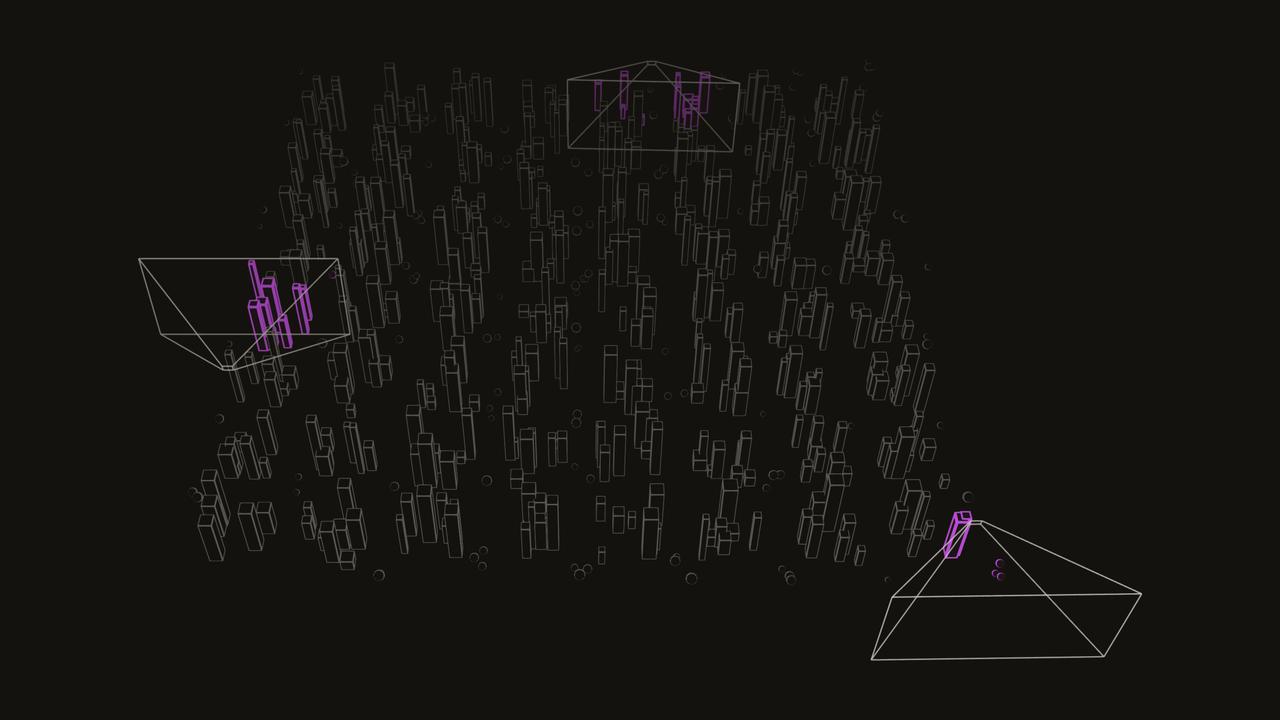
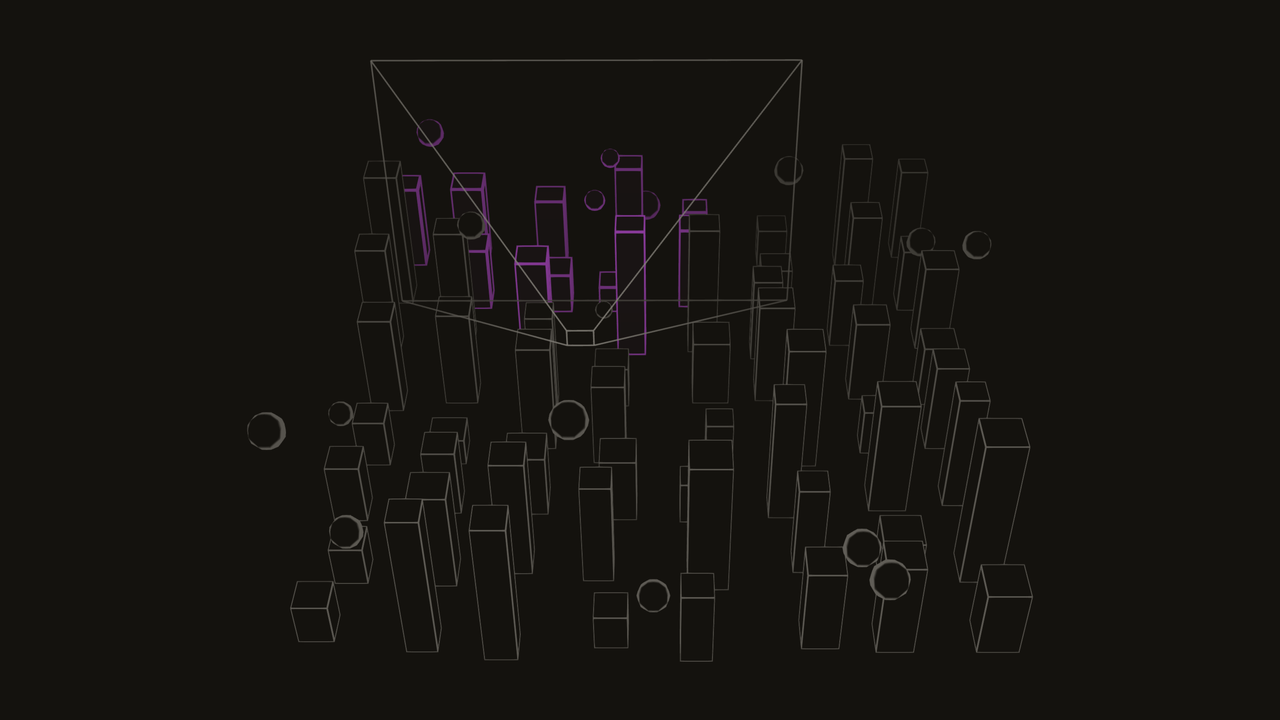
Match frustum study scale to promo

diff --git a/examples/src/example-frustum-culling.ts b/examples/src/example-frustum-culling.ts
@@ -27,11 +27,11 @@ import { clearColor, palette, rgb, spectrum } from './common/theme';
 const MAX_AGENTS = 16;
 const ACCENT = spectrum[0];
 const BLOCKS = 8; // city blocks per side, so BLOCKS + 1 streets and intersections
-const BLOCK = 4; // centre to centre of neighbouring streets
+const BLOCK = 1.1; // centre to centre of neighbouring streets
 const FIELD = BLOCKS * BLOCK;
-const ROAD = 1.1; // kept clear of buildings
-const PER_BLOCK = 8;
-const ORBS = 120;
+const ROAD = 0.32; // kept clear of buildings
+const PER_BLOCK = 1;
+const ORBS = 16;
 const EYE_HEIGHT = 0.75;
 const TURN_RATE = 7; // how fast an agent swings to face a new street
 
@@ -42,7 +42,7 @@ function street(i: number): number {
 
 type Settings = { agents: number; fov: number; range: number; speed: number; cones: boolean };
 
-const settings: Settings = { agents: 3, fov: 52, range: 5, speed: 2.2, cones: true };
+const settings: Settings = { agents: 1, fov: 52, range: 4.4, speed: 0.8, cones: true };
 
 /* the map */
 
@@ -65,8 +65,8 @@ for (let bz = 0; bz < BLOCKS; bz++) {
         const minZ = street(bz) + ROAD / 2;
         const maxZ = street(bz + 1) - ROAD / 2;
         for (let k = 0; k < PER_BLOCK; k++) {
-            const width = random.float(nextRandom, 0.25, 0.6);
-            const height = random.float(nextRandom, 0.4, 3.2);
+            const width = random.float(nextRandom, 0.35, 0.5);
+            const height = random.float(nextRandom, 0.4, 2.2);
             vec3.set(
                 _build_center,
                 random.float(nextRandom, minX + width / 2, maxX - width / 2),
@@ -149,6 +149,8 @@ function createAgent(): Agent {
 
 const agents: Agent[] = [];
 for (let i = 0; i < MAX_AGENTS; i++) agents.push(createAgent());
+agents[0].cellX = BLOCKS / 2;
+agents[0].cellZ = BLOCKS / 2;
 
 /** Picks the next street at an intersection, favouring straight on and never doubling back. */
 function turn(agent: Agent): void {
@@ -205,7 +207,7 @@ const UP: Vec3 = [0, 1, 0];
 function look(delta: number): number {
     for (let i = 0; i < seenBy.length; i++) seenBy[i] = -1;
 
-    mat4.perspectiveZO(projection, (settings.fov * Math.PI) / 180, 1.9, 0.25, settings.range);
+    mat4.perspectiveZO(projection, (settings.fov * Math.PI) / 180, 1.5, 0.25, settings.range);
 
     let seen = 0;
     for (let a = 0; a < settings.agents; a++) {
@@ -247,8 +249,8 @@ const scene = new g.Scene();
 // high and angled, so the map reads flat but the buildings still have height
 const camera = new g.PerspectiveCamera(Math.PI / 5, window.innerWidth / window.innerHeight, 0.1, 200);
 camera.position[0] = 0;
-camera.position[1] = 46;
-camera.position[2] = 46;
+camera.position[1] = 13;
+camera.position[2] = 15;
 scene.add(camera);
 
 const controls = new g.OrbitControls(camera, canvas);
@@ -292,7 +294,7 @@ function createField(geometry: g.Geometry, count: number, box: boolean) {
     const unseenColor = g.mix(ink(palette.base), light, edge.mul(g.f32(0.4)));
     const seenColor = g.mix(ink(palette.base), vTint, g.f32(0.045).add(seenEdge.mul(g.f32(0.95))));
     const color = g.mix(unseenColor, seenColor, vSeen);
-    const mesh = new g.Mesh(geometry, new g.Material({ vertex: clip, fragment: g.vec4(depthInk(color, world, 20), g.f32(1)) }));
+    const mesh = new g.Mesh(geometry, new g.Material({ vertex: clip, fragment: g.vec4(depthInk(color, world, 6), g.f32(1)) }));
     mesh.count = count;
     scene.add(mesh);
 
@@ -332,7 +334,7 @@ orbField.extentBuffer.needsUpdate = true;
 // the twelve edges of the eight corners: near ring, far ring, and the struts
 const EDGES = [0, 1, 1, 2, 2, 3, 3, 0, 4, 5, 5, 6, 6, 7, 7, 4, 0, 4, 1, 5, 2, 6, 3, 7];
 
-const coneMaterial = new g.LineMaterial({ color: g.vec4(lineInk(light, 20), g.f32(0.8)), lineWidth: pixels(1.1), transparent: true });
+const coneMaterial = new g.LineMaterial({ color: g.vec4(lineInk(light, 6), g.f32(0.8)), lineWidth: pixels(1.1), transparent: true });
 coneMaterial.depthTest = false;
 coneMaterial.depthWrite = false;
 
